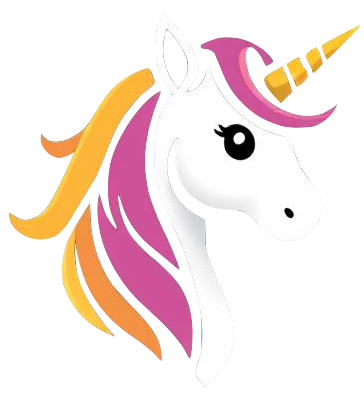
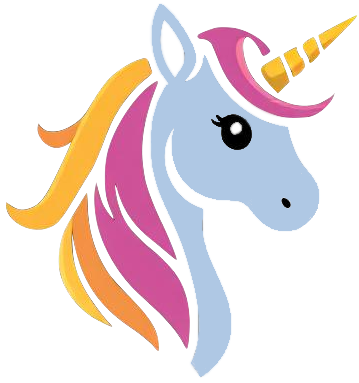
Docs - Add lightmode (#123)

Changed region(s): [[0.0919, 0.0, 1.0, 1.0], [0.0, 0.517, 0.1226, 0.6031], [0.9192, 0.2298, 0.9499, 0.2585]]

diff --git a/README.md b/README.md
@@ -1,8 +1,6 @@
-
-<!-- docs/asserts/logo.png -->
 <div align="center">
     <p>
-        <img width="50%" src="https://github.com/user-attachments/assets/5541cdaf-f7f1-4bb1-b888-41ca3fb43d02" alt="Clypi logo" />
+        <img width="50%" src="http://danimelchor.github.io/clypi/assets/logo.png" alt="Clypi logo" />
     <p/>
     <p>Your all-in-one for beautiful, lightweight, prod-ready CLIs</p>
     <a href="https://pypi.org/project/clypi/" target="_blank">

diff --git a/docs/index.md b/docs/index.md
@@ -1,8 +1,6 @@
-
-<!-- docs/asserts/logo.png -->
 <div align="center">
     <p>
-        <img width="50%" src="https://github.com/user-attachments/assets/5541cdaf-f7f1-4bb1-b888-41ca3fb43d02" alt="Clypi logo" />
+        <img width="50%" src="./assets/logo.png" alt="Clypi logo" />
     <p/>
     <p>Your all-in-one for beautiful, lightweight, prod-ready CLIs</p>
     <a href="https://pypi.org/project/clypi/" target="_blank">
